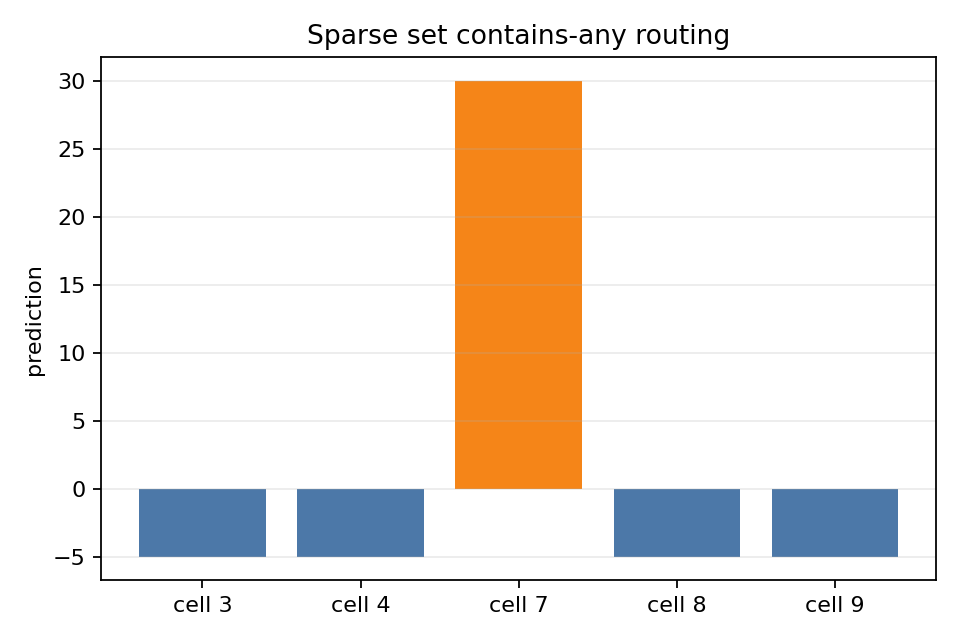
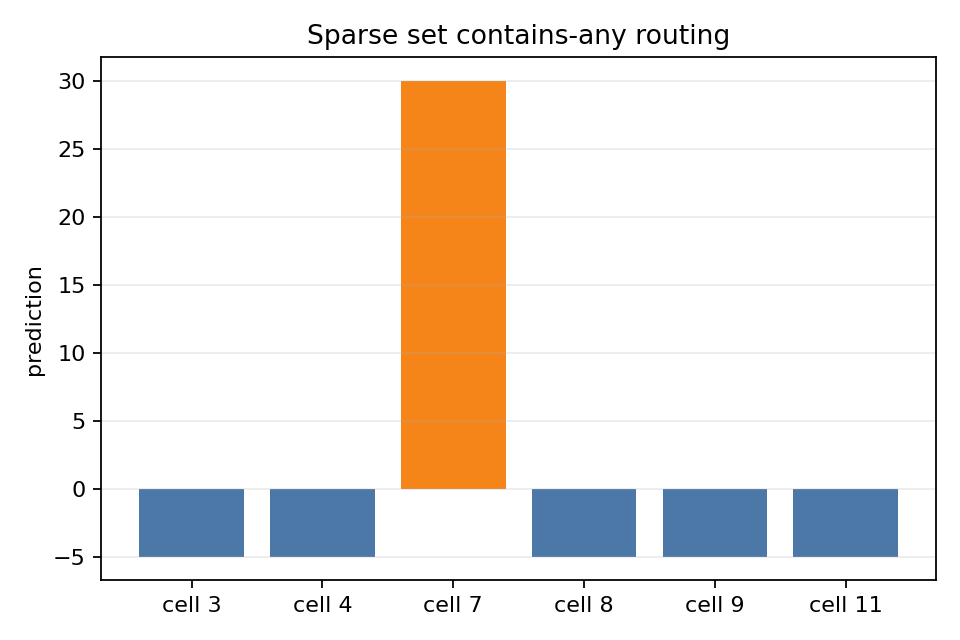
Show unseen sparse cell in proof image

diff --git a/scripts/generate_segmentation_proofs.py b/scripts/generate_segmentation_proofs.py
@@ -275,8 +275,8 @@ def phase_sparse_set() -> None:
     x = np.array([[7.0], [7.0], [3.0], [4.0], [9.0], [9.0], [8.0], [8.0]])
     y = np.array([30.0, 30.0, -5.0, -5.0, -5.0, -5.0, -5.0, -5.0])
     model = fit_model(x, y, splitters=["sparse_set"], min_samples_leaf=2)
-    labels = ["cell 3", "cell 4", "cell 7", "cell 8", "cell 9"]
-    probe = np.array([[3.0], [4.0], [7.0], [8.0], [9.0]])
+    labels = ["cell 3", "cell 4", "cell 7", "cell 8", "cell 9", "cell 11"]
+    probe = np.array([[3.0], [4.0], [7.0], [8.0], [9.0], [11.0]])
     save_bar_plot(
         PHASE_OUT / "phase_7_sparse_set.png",
         "Sparse set contains-any routing",